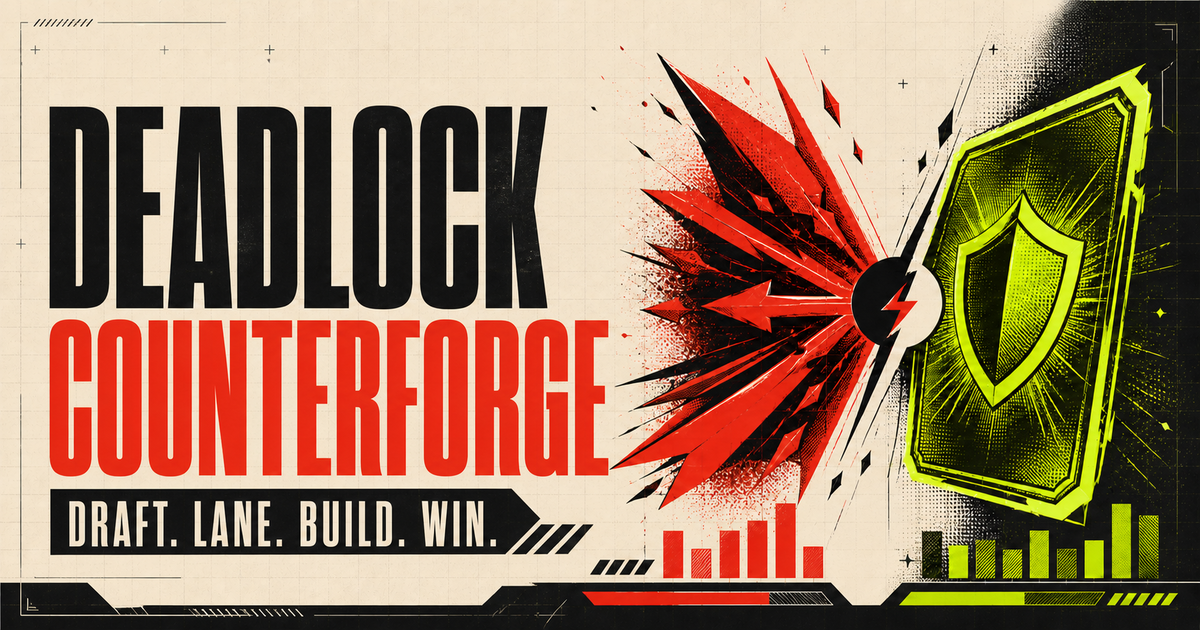
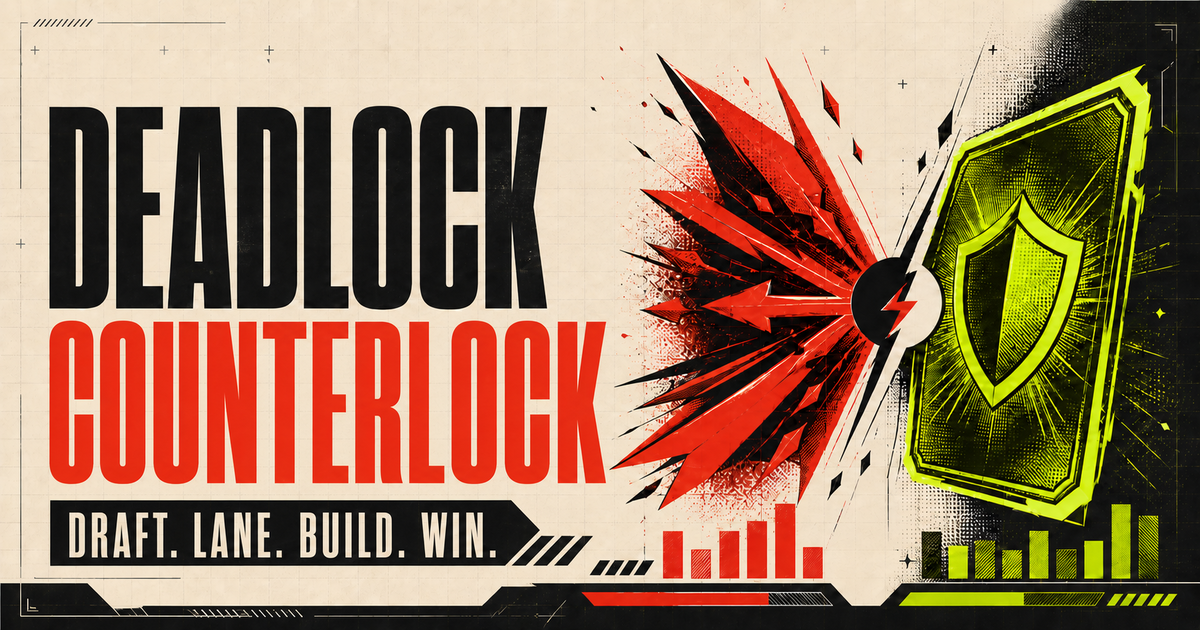
Rename project to Deadlock Counterlock

diff --git a/app/page.tsx b/app/page.tsx
@@ -36,7 +36,7 @@ type CounterPick = { hero: Hero; score: number; carryRate: number; matches: numb
 
 const copy = {
   en: {
-    home: "CounterForge home", heroKicker: "DEADLOCK MATCHUP INTELLIGENCE",
+    home: "Counterlock home", heroKicker: "DEADLOCK MATCHUP INTELLIGENCE",
     heroTitleA: "Build for the fight", heroTitleB: "happening right now.",
     heroText: "Choose your hero, mark the enemy carry, and get item recommendations ranked with real matchup data.",
     yourHero: "YOUR HERO", youPlay: "YOU PLAY", chooseHero: "Choose your hero", changeHero: "CHANGE HERO", searchHero: "Search heroes…", heroRoster: "HERO ROSTER", heroesAvailable: "heroes available", selectedHero: "SELECTED", enemyPick: "ENEMY PICK", closeHeroPicker: "Close hero picker",
@@ -71,7 +71,7 @@ const copy = {
     counterpickKicker: "DRAFT ASSISTANT", counterpickTitle: "Heroes that counter", counterpickText: "Lineup score is normalized against each hero's overall baseline, revealing matchup-specific counters instead of generally strong heroes.", bestPick: "BEST PICK", teamWr: "LINEUP EDGE", carryWr: "VS. CARRY", useHero: "PLAY THIS HERO", coverage: "matchups covered", currentPick: "CURRENT PICK", showAllHeroes: "SHOW ALL HEROES", hideAllHeroes: "HIDE FULL TABLE", heroColumn: "HERO", gamesColumn: "MATCHES",
   },
   de: {
-    home: "CounterForge Startseite", heroKicker: "DEADLOCK MATCHUP-ANALYSE",
+    home: "Counterlock Startseite", heroKicker: "DEADLOCK MATCHUP-ANALYSE",
     heroTitleA: "Baue für den Kampf,", heroTitleB: "der gerade passiert.",
     heroText: "Wähle deinen Helden, markiere den gegnerischen Carry und erhalte Item-Empfehlungen aus echten Matchup-Daten.",
     yourHero: "DEIN HELD", youPlay: "DU SPIELST", chooseHero: "Helden auswählen", changeHero: "HELD WECHSELN", searchHero: "Helden suchen…", heroRoster: "HELDEN-ROSTER", heroesAvailable: "Helden verfügbar", selectedHero: "AUSGEWÄHLT", enemyPick: "GEGNER-PICK", closeHeroPicker: "Heldenauswahl schließen",
@@ -635,7 +635,7 @@ export default function Home() {
   return (
     <main>
       <header className="site-header">
-        <a className="brand" href="#top" aria-label={t.home}><span className="brand-mark">CF</span><span><strong>COUNTER</strong>FORGE</span></a>
+        <a className="brand" href="#top" aria-label={t.home}><span className="brand-mark">CL</span><span><strong>COUNTER</strong>LOCK</span></a>
         <div className="header-actions">
           <div className="live-pill"><span /> LIVE MATCH DATA</div>
           <div className="language-toggle" aria-label="Language / Sprache">
@@ -745,7 +745,7 @@ export default function Home() {
         <div className="method-note"><span>i</span><p><strong>{t.methodTitle}</strong> {t.method}</p>{updatedAt && <time>{t.updated} {updatedAt.toLocaleTimeString(lang === "de" ? "de-DE" : "en-US", { hour: "2-digit", minute: "2-digit" })}</time>}</div>
       </section>
 
-      <footer><div className="brand"><span className="brand-mark">CF</span><span><strong>COUNTER</strong>FORGE</span></div><p>{t.footer} <a href="https://deadlock-api.com/" target="_blank" rel="noreferrer">Deadlock API</a> {t.disclaimer}</p></footer>
+      <footer><div className="brand"><span className="brand-mark">CL</span><span><strong>COUNTER</strong>LOCK</span></div><p>{t.footer} <a href="https://deadlock-api.com/" target="_blank" rel="noreferrer">Deadlock API</a> {t.disclaimer}</p></footer>
 
       {allyPickerOpen && <div className="import-overlay hero-picker-overlay" role="dialog" aria-modal="true" aria-labelledby="ally-picker-title">
         <div className="import-modal hero-picker-modal ally-picker-modal">

diff --git a/app/layout.tsx b/app/layout.tsx
@@ -10,17 +10,17 @@ const socialImage = `${siteUrl.replace(/\/$/, "")}/og.png`;
 
 export const metadata: Metadata = {
   metadataBase: new URL(siteUrl),
-  title: "Deadlock CounterForge — Matchup & Build Intelligence",
+  title: "Deadlock Counterlock — Matchup & Build Intelligence",
   description: "Data-driven Deadlock counter picks, lane matchups, item recommendations, and full builds.",
   openGraph: {
-    title: "Deadlock CounterForge",
+    title: "Deadlock Counterlock",
     description: "Forge a better Deadlock draft, lane, and item build with live matchup data.",
     type: "website",
-    images: [{ url: socialImage, width: 1200, height: 630, alt: "Deadlock CounterForge matchup intelligence" }],
+    images: [{ url: socialImage, width: 1200, height: 630, alt: "Deadlock Counterlock matchup intelligence" }],
   },
   twitter: {
     card: "summary_large_image",
-    title: "Deadlock CounterForge",
+    title: "Deadlock Counterlock",
     description: "Counter picks, lane matchups, and item builds powered by live Deadlock data.",
     images: [socialImage],
   },

diff --git a/next.config.ts b/next.config.ts
@@ -1,7 +1,7 @@
 import type { NextConfig } from "next";
 
 const isGitHubPages = process.env.GITHUB_PAGES === "true";
-const repositoryName = process.env.GITHUB_REPOSITORY?.split("/")[1] ?? "deadlock-counterforge";
+const repositoryName = process.env.GITHUB_REPOSITORY?.split("/")[1] ?? "deadlock-counterlock";
 const isUserSite = repositoryName.endsWith(".github.io");
 const basePath = isGitHubPages && !isUserSite ? `/${repositoryName}` : "";
 

diff --git a/README.md b/README.md
@@ -1,6 +1,6 @@
-# Deadlock CounterForge
+# Deadlock Counterlock
 
-Deadlock CounterForge is a data-driven match assistant for drafting, lane setup, counter picks, and item builds.
+Deadlock Counterlock is a data-driven match assistant for drafting, lane setup, counter picks, and item builds.
 
 ## Features
 
@@ -15,7 +15,7 @@ Deadlock CounterForge is a data-driven match assistant for drafting, lane setup,
 
 ## Live website
 
-[Open Deadlock CounterForge](https://febsho.github.io/deadlock-counterforge/)
+[Open Deadlock Counterlock](https://febsho.github.io/deadlock-counterlock/)
 
 ## Development
 
@@ -35,7 +35,7 @@ npm run build
 Create the static GitHub Pages export:
 
 ```bash
-GITHUB_REPOSITORY=Febsho/deadlock-counterforge npm run build:pages
+GITHUB_REPOSITORY=Febsho/deadlock-counterlock npm run build:pages
 ```
 
 ## Data and privacy
